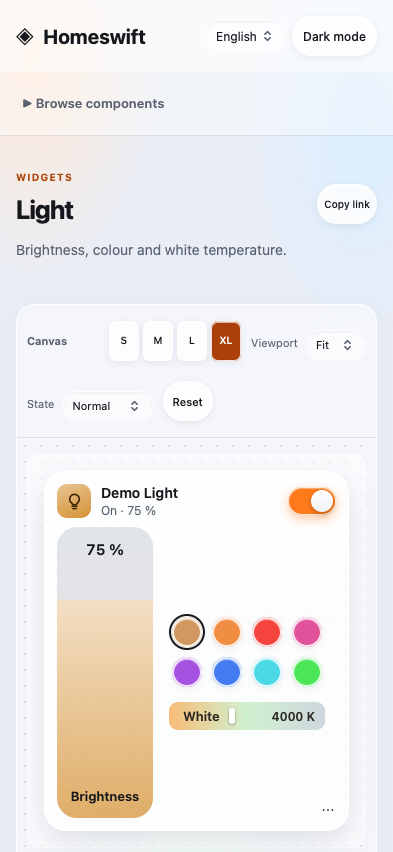
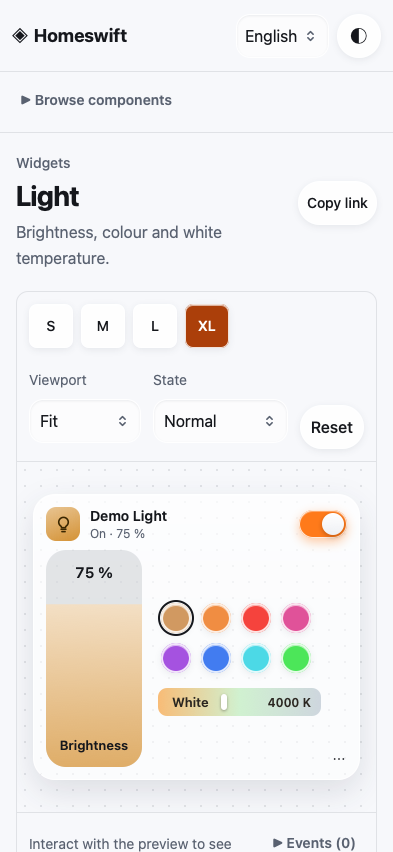
Improve design explorer accessibility and visual hierarchy

diff --git a/site/design/explorer.css b/site/design/explorer.css
@@ -1,78 +1,92 @@
-.design-library { padding: 0; }
-.library-header { margin: 0; max-width: none; width: 100%; border-radius: 0; box-shadow: none; border: 0; background-image: none; position: sticky; top: 0; z-index: 20; display: flex; align-items: center; justify-content: space-between; gap: 16px; min-height: 72px; padding: 14px 28px; background: var(--material-thick); border-bottom: 1px solid var(--line); backdrop-filter: blur(24px); }
-.library-brand { display: flex; gap: 10px; align-items: center; font-size: 20px; font-weight: 700; color: var(--text); text-decoration: none; }
-.library-brand > small { font-size: 13px; font-weight: 500; color: var(--muted); border-left: 1px solid var(--line); padding-left: 12px; margin-left: 4px; }
-.library-header-actions { display: flex; gap: 12px; align-items: center; font-size: 12px; }
-.library-header-actions button, .library-header-actions select { width: auto; padding: 6px 10px; font-size: 12px; }
-.library-status { color: var(--ok); display: flex; gap: 6px; align-items: center; }
-.library-status::before { content: ''; width: 6px; height: 6px; border-radius: 50%; background: currentColor; }
-.library-layout { display: grid; grid-template-columns: 264px minmax(0,1fr); min-height: calc(100vh - 72px); }
-.library-sidebar { position: sticky; top: 73px; height: calc(100vh - 73px); overflow: auto; padding: 24px 14px; border-right: 1px solid var(--line); background: var(--material-thin); }
-.library-search { display: grid; gap: 8px; padding: 0 8px; font-size: 11px; font-weight: 600; color: var(--muted); }
-.library-search input { padding-left: 36px; font-size: 12px; width: 100%; padding: 10px 10px 10px 36px; border-radius: 10px; }
-.library-filters { display: flex; flex-wrap: wrap; gap: 4px; padding: 12px 8px 4px; }
-.library-filters button { padding: 5px 8px; font-size: 11px; border-radius: 8px; box-shadow: none; }
+/* The explorer stays quiet; the production widget supplies the materials and colour. */
+.design-library { padding: 0; background: var(--material-solid); }
+.design-library::before { display: none; }
+.library-header { position: sticky; top: 0; z-index: 20; display: flex; align-items: center; justify-content: space-between; gap: 1rem; min-height: 4.5rem; margin: 0; max-width: none; width: 100%; padding: .75rem 1.5rem; border: 0; border-bottom: 1px solid var(--line); border-radius: 0; background: var(--material-solid); background-image: none; box-shadow: none; -webkit-backdrop-filter: none; backdrop-filter: none; }
+.library-brand { display: flex; gap: .625rem; align-items: center; font-size: 1.25rem; font-weight: 700; color: var(--text); text-decoration: none; }
+.library-brand > small { font-size: .875rem; font-weight: 500; color: var(--muted); border-left: 1px solid var(--line); padding-left: .75rem; margin-left: .25rem; }
+.library-header-actions { display: flex; gap: .75rem; align-items: center; font-size: .875rem; }
+.library-header-actions button, .library-header-actions select { width: auto; min-height: 2.75rem; padding: .5rem .75rem; font-size: .875rem; }
+.library-header-actions > a { color: var(--muted); text-decoration: none; }
+.library-status { color: var(--ok); display: flex; gap: .375rem; align-items: center; }
+.library-status::before { content: ''; width: .375rem; height: .375rem; border-radius: 50%; background: currentColor; }
+.library-layout { display: grid; grid-template-columns: 17rem minmax(0,1fr); min-height: calc(100vh - 4.5rem); }
+.library-sidebar { position: sticky; top: 4.5rem; height: calc(100vh - 4.5rem); overflow: auto; padding: 1.5rem .875rem; border-right: 1px solid var(--line); background: transparent; }
+.library-search { display: grid; gap: .5rem; padding: 0 .5rem; font-size: .875rem; font-weight: 600; color: var(--muted); }
+.library-search input { width: 100%; min-width: 0; min-height: 2.75rem; padding: .625rem .625rem .625rem 2.25rem; font-size: 1rem; border-radius: .625rem; }
+.library-filters { display: flex; flex-wrap: wrap; gap: .5rem; padding: .875rem .5rem .25rem; }
+.library-filters button { min-height: 2.75rem; padding: .5rem .625rem; font-size: .875rem; border-radius: .5rem; box-shadow: none; }
 .library-filters button[aria-pressed=true], .size-picker-button[aria-pressed=true] { background: var(--accent-fill); color: white; }
-.library-count { font-size: 11px; color: var(--muted); margin: 10px 8px 16px; }
-.story-group { margin: 18px 8px 7px; font-size: 10px; font-weight: 650; text-transform: uppercase; letter-spacing: .08em; color: var(--muted); }
-.story-link { display: flex; align-items: center; gap: 9px; padding: 8px 10px; margin: 2px 0; border-radius: 8px; text-decoration: none; color: var(--text); font-size: 12px; line-height: 1.4; }
-.story-link::before { content: '◈'; color: var(--muted); font-size: 13px; }
+.library-count { font-size: .8125rem; color: var(--muted); margin: .75rem .5rem 1rem; }
+.story-group { margin: 1.25rem .5rem .5rem; font-size: .875rem; font-weight: 650; color: var(--muted); letter-spacing: 0; text-transform: none; }
+.story-link { display: flex; align-items: center; gap: .5rem; min-height: 2.75rem; padding: .625rem; margin: .125rem 0; border-radius: .5rem; text-decoration: none; color: var(--text); font-size: .875rem; line-height: 1.4; }
+.story-link::before { content: '◈'; color: var(--muted); font-size: .875rem; }
 .story-link[data-kind=characteristic]::before { content: '◇'; color: var(--cool); }
 .story-link[aria-current=page] { background: color-mix(in srgb,var(--accent) 12%, transparent); color: var(--accent-ink); font-weight: 650; }
-.library-main { padding: 36px clamp(20px,4vw,64px) 80px; max-width: 1600px; width: 100%; min-width: 0; }
-.story-heading { display: flex; justify-content: space-between; gap: 20px; margin-bottom: 28px; align-items: flex-start; }
-.story-heading h1 { font-size: clamp(26px,3vw,38px); margin: 8px 0; letter-spacing: -.035em; }
-.story-heading p:last-child { font-size: 14px; color: var(--muted); line-height: 1.7; max-width: 680px; }
-.story-eyebrow { color: var(--accent-ink); font-size: 10px; letter-spacing: .12em; text-transform: uppercase; font-weight: 700; }
-#copy-link { white-space: nowrap; font-size: 12px; margin-top: 24px; }
-.preview-card { border: 1px solid var(--edge); border-radius: 18px; overflow: hidden; background: var(--material); box-shadow: 0 8px 30px rgba(30,40,60,.04); }
-.preview-toolbar { display: flex; flex-wrap: wrap; align-items: center; gap: 16px; min-height: 62px; padding: 12px 18px; border-bottom: 1px solid var(--line); }
-.preview-label { font-size: 11px; font-weight: 650; color: var(--muted); margin-right: auto; }
-.preview-toolbar label { display: flex; gap: 8px; align-items: center; font-size: 11px; color: var(--muted); }
-.preview-toolbar select, .preview-toolbar button { width: auto; font-size: 11px; padding: 6px 9px; }
-#size-picker { display: flex; gap: 4px; }
-#size-picker button { width: 30px; height: 30px; padding: 0; border-radius: 7px; font-size: 10px; }
-.preview-scroll { display: flex; justify-content: safe center; overflow-x: auto; padding: 28px 16px; min-height: 260px; background-image: radial-gradient(var(--line) .8px, transparent .8px); background-size: 16px 16px; }
-#preview { display: block; border: 1px solid var(--edge); border-radius: 14px; flex-shrink: 0; width: 393px; min-height: 220px; padding: 16px; background: var(--material); }
-.preview-note { margin: 0; padding: 10px 18px; border-top: 1px solid var(--line); color: var(--muted); font-size: 10px; }
-.story-panels { display: grid; grid-template-columns: minmax(0,1.1fr) minmax(0,1fr); gap: 18px; margin-top: 20px; }
-.story-panel { min-width: 0; padding: 22px; border: 1px solid var(--line); border-radius: 16px; background: var(--material-thin); margin-bottom: 18px; }
-.story-panel h2 { margin: 0 0 10px; font-size: 14px; }
-.story-panel h3 { font-size: 11px; color: var(--muted); margin: 22px 0 12px; text-transform: uppercase; letter-spacing: .06em; }
-.panel-help { color: var(--muted); font-size: 11px; line-height: 1.7; margin-bottom: 18px; }
-.knob { display: grid; grid-template-columns: minmax(0,1fr) minmax(110px,42%); align-items: center; gap: 14px; padding: 10px 0; border-bottom: 1px solid var(--line); font-size: 11px; }
-.knob small { display: block; color: var(--muted); font-size: 9px; margin-top: 3px; }
-.knob input, .knob select { width: 100%; font-size: 12px; min-width: 0; padding: 6px 9px; }
-.knob input[type=checkbox] { width: 20px; height: 20px; justify-self: end; accent-color: var(--accent-fill); }
-.rule { font-size: 12px; line-height: 1.7; color: var(--muted); margin: 0 0 12px; }
+.library-main { padding: 2rem clamp(1.25rem,4vw,4rem) 4rem; max-width: 100rem; width: 100%; min-width: 0; }
+.story-heading { display: flex; justify-content: space-between; gap: 1rem; margin-bottom: 1.5rem; align-items: flex-start; }
+.story-heading > div { min-width: 0; }
+.story-heading h1 { overflow-wrap: anywhere; font-size: clamp(1.75rem,3vw,2.25rem); margin: .375rem 0; letter-spacing: -.025em; scroll-margin-top: 6rem; }
+.story-heading h1:focus-visible { outline: 2px solid var(--accent); outline-offset: .25rem; }
+.story-heading p:last-child { font-size: 1rem; color: var(--muted); line-height: 1.6; max-width: 44rem; margin: .5rem 0 0; }
+.story-eyebrow { color: var(--muted); font-size: .875rem; font-weight: 500; margin: 0; }
+#copy-link { min-height: 2.75rem; white-space: nowrap; font-size: .875rem; margin-top: 1.75rem; }
+.preview-card { border: 1px solid var(--line); border-radius: .75rem; overflow: hidden; background: transparent; box-shadow: none; }
+.preview-toolbar { display: flex; flex-wrap: wrap; align-items: center; gap: 1rem; padding: .875rem 1rem; border-bottom: 1px solid var(--line); }
+.preview-toolbar label { display: flex; gap: .5rem; align-items: center; min-width: 0; font-size: .875rem; color: var(--muted); }
+.preview-toolbar select, .preview-toolbar button { width: auto; min-height: 2.75rem; font-size: 1rem; padding: .5rem .625rem; }
+#size-picker { display: flex; flex-wrap: wrap; gap: .5rem; }
+#size-picker button { flex: 0 0 2.75rem; width: 2.75rem; min-width: 2.75rem; height: 2.75rem; min-height: 2.75rem; padding: 0; border-radius: .5rem; font-size: .875rem; }
+#reset { margin-left: auto; }
+.preview-scroll { display: flex; justify-content: safe center; overflow-x: auto; padding: 1.5rem 1rem; min-height: 16.25rem; background-image: radial-gradient(var(--line) .8px, transparent .8px); background-size: 1rem 1rem; }
+#preview { display: block; flex-shrink: 0; width: 393px; min-height: 13.75rem; padding: 1rem; border: 0; border-radius: 0; background: transparent; }
+.preview-feedback { display: grid; grid-template-columns: minmax(0,1fr) auto; align-items: start; gap: .75rem 1rem; padding: 1rem; border-top: 1px solid var(--line); }
+#last-event { margin: .5rem 0 0; font-size: .875rem; line-height: 1.5; color: var(--muted); overflow-wrap: anywhere; }
+#last-event[data-tone=error] { color: var(--error); }
+.event-details > summary { min-height: 2.75rem; cursor: pointer; font-size: .875rem; font-weight: 600; padding: .5rem; }
+.event-details[open] { grid-column: 1 / -1; }
+.preview-note { margin: 0; padding: 0 1rem 1rem; color: var(--muted); font-size: .8125rem; line-height: 1.5; }
+.story-panels { display: grid; grid-template-columns: minmax(0,1.1fr) minmax(0,1fr); gap: 2rem; margin-top: 1.5rem; }
+.story-panel { min-width: 0; padding: 1.25rem 0; border: 0; border-top: 1px solid var(--line); border-radius: 0; background: transparent; margin-bottom: 1rem; box-shadow: none; }
+.story-panel h2 { margin: 0 0 .75rem; font-size: 1.125rem; }
+.story-panel h3 { font-size: 1rem; color: var(--text); margin: 1.5rem 0 .75rem; letter-spacing: 0; text-transform: none; }
+.panel-help { color: var(--muted); font-size: .875rem; line-height: 1.6; margin-bottom: 1.25rem; }
+.knob { display: grid; grid-template-columns: minmax(0,1fr) minmax(7rem,46%); align-items: center; gap: .875rem; min-height: 2.75rem; padding: .75rem 0; border-bottom: 1px solid var(--line); font-size: .875rem; overflow-wrap: anywhere; }
+.knob small { display: block; color: var(--muted); font-size: .8125rem; margin-top: .25rem; }
+.knob input, .knob select { width: 100%; min-height: 2.75rem; font-size: 1rem; min-width: 0; padding: .5rem; }
+.knob input[type=checkbox] { width: 1.5rem; height: 1.5rem; min-height: 0; justify-self: end; accent-color: var(--accent-fill); }
+.rule { font-size: .9375rem; line-height: 1.65; color: var(--muted); margin: 0 0 .875rem; }
 .rule strong { color: var(--text); }
-.story-panel dl { display: grid; grid-template-columns: 96px minmax(0,1fr); font-size: 11px; gap: 9px 12px; margin: 0; }
+.story-panel dl { display: grid; grid-template-columns: 7rem minmax(0,1fr); font-size: .875rem; gap: .75rem; margin: 0; }
 .story-panel dt { color: var(--muted); }
-.story-panel dd { margin: 0; overflow-wrap: anywhere; font-family: var(--mono); font-size: 10px; }
+.story-panel dd { margin: 0; overflow-wrap: anywhere; font-family: var(--mono); font-size: .8125rem; }
 .panel-heading { display: flex; justify-content: space-between; align-items: center; }
-.panel-heading button { font-size: 11px; padding: 4px 8px; }
-.event-log { list-style: none; margin: 0; padding: 0; max-height: 180px; overflow: auto; }
-.event-log li { padding: 8px 0; border-top: 1px solid var(--line); color: var(--muted); font: 10px/1.6 var(--mono); overflow-wrap: anywhere; }
-.story-panel pre { margin: 0; max-height: 260px; overflow: auto; font-size: 10px; padding: 14px; border-radius: 10px; }
-.token-grid { display: grid; grid-template-columns: repeat(auto-fit,minmax(180px,1fr)); gap: 14px; }
-.token-card { padding: 18px; border: 1px solid var(--line); border-radius: 14px; background: var(--material); }
-.token-swatch { height: 64px; border-radius: 9px; border: 1px solid var(--line); margin-bottom: 12px; }
-.token-card strong { display: block; font-size: 12px; }.token-card code { font-size: 10px; color: var(--muted); }
-.skip { position: fixed; top: -100px; left: 12px; z-index: 50; }.skip:focus { top: 10px; background: var(--material-solid); padding: 12px; }
-@media(max-width:1000px) { .library-header-actions > a,.library-status { display: none; } .story-panels { grid-template-columns: 1fr; } .library-layout { grid-template-columns: 220px minmax(0,1fr); } }
-@media(max-width:700px) { .library-header { margin: 0; max-width: none; width: 100%; border-radius: 0; box-shadow: none; border: 0; background-image: none; padding: 12px 16px; }.library-brand > small { display: none; }.library-header-actions { gap: 6px; }.library-layout { display: block; }.library-sidebar { position: static; height: auto; padding: 14px; border-right: 0; border-bottom: 1px solid var(--line); } #stories { max-height: 210px; overflow:auto; }.library-main { padding: 24px 16px 60px; }.preview-scroll { justify-content: flex-start; padding: 16px 10px; }.preview-toolbar { gap: 10px; padding: 10px; }.story-heading { gap: 10px; }#copy-link { font-size: 10px; padding: 6px; } }
-
+.panel-heading button { min-height: 2.75rem; font-size: .875rem; padding: .5rem .75rem; }
+.event-log { list-style: none; margin: 0; padding: 0; max-height: 15rem; overflow: auto; }
+.event-log li { padding: .625rem 0; border-top: 1px solid var(--line); color: var(--muted); font: .8125rem/1.6 var(--mono); overflow-wrap: anywhere; }
+.fixture-panel > summary { min-height: 2.75rem; cursor: pointer; font-size: 1rem; font-weight: 600; padding: .5rem 0; }
+.story-panel pre { margin: 0; max-height: 20rem; overflow: auto; font-size: .8125rem; padding: 1rem 0; border-radius: 0; }
+.token-grid { display: grid; grid-template-columns: repeat(auto-fit,minmax(min(100%,11rem),1fr)); gap: 1rem; }
+.token-card { padding: 1rem; border: 1px solid var(--line); border-radius: .5rem; background: transparent; }
+.token-swatch { height: 4rem; border-radius: .375rem; border: 1px solid var(--line); margin-bottom: .75rem; }
+.token-card strong { display: block; font-size: .875rem; }.token-card code { font-size: .8125rem; color: var(--muted); }
+.skip { position: fixed; top: -100px; left: .75rem; z-index: 50; }.skip:focus { top: .625rem; background: var(--material-solid); padding: .75rem; }
 #stories { display: block; }
-.library-header-actions > a { color: var(--muted); text-decoration: none; }
-.library-header-actions > a:hover { color: var(--text); text-decoration: underline; }
-
 #view { width: 100%; min-width: 0; }
 #story-browser > summary { display: none; }
-#preview .characteristic-demo { padding: 24px; }
+#preview .characteristic-demo { padding: 1.5rem; }
 #preview .characteristic-demo .control { margin: 0; }
 #preview .characteristic-demo .control > span:first-child { max-width: 48%; }
 #preview .protocol-note { color: var(--muted); line-height: 1.6; margin: 0; }
+@media (hover: hover) and (pointer: fine) { .library-header-actions > a:hover { color: var(--text); text-decoration: underline; } }
+@media (hover: none) { .design-library button:hover { transform: none; }.design-library button:active:not(:disabled) { transform: scale(.97); } }
+@media (max-width: 1100px) { .library-header-actions > a,.library-status { display: none; }.story-panels { grid-template-columns: 1fr; gap: 0; }.library-layout { grid-template-columns: 15rem minmax(0,1fr); } }
 @media (max-width: 700px) {
-  #story-browser > summary { display: list-item; cursor: pointer; padding: 8px; font-weight: 600; font-size: 13px; }
-  #story-browser[open] > summary { margin-bottom: 12px; }
+  .library-header { flex-wrap: wrap; padding: .75rem; gap: .5rem; }.library-brand { font-size: 1.125rem; gap: .375rem; }.library-brand > small { display: none; }.library-header-actions { gap: .5rem; }.library-header-actions select { font-size: 1rem; max-width: 7rem; padding: .5rem; }
+  #theme { font-size: 0; width: 2.75rem; height: 2.75rem; padding: 0; flex: 0 0 auto; }#theme::before { content: '◐'; font-size: 1.25rem; }
+  .library-layout { display: block; }.library-sidebar { position: static; height: auto; padding: .5rem .75rem; border-right: 0; border-bottom: 1px solid var(--line); }
+  #story-browser > summary { display: list-item; min-height: 2.75rem; cursor: pointer; padding: .625rem .5rem; font-weight: 600; font-size: .875rem; }#story-browser[open] > summary { margin-bottom: .75rem; }#stories { max-height: 40vh; overflow: auto; }
+  .library-main { padding: 1.25rem 1rem 3rem; }.story-heading { gap: .75rem; margin-bottom: 1.25rem; }#copy-link { font-size: .875rem; padding: .5rem; }
+  .preview-toolbar { display: grid; grid-template-columns: minmax(0,1fr) minmax(0,1.2fr) auto; gap: .75rem; padding: .75rem; }#size-picker { grid-column: 1 / -1; }.preview-toolbar label { display: grid; gap: .25rem; }.preview-toolbar select { width: 100%; min-width: 0; }#reset { align-self: end; margin-left: 0; }
+  .knob { grid-template-columns: 1fr; gap: .5rem; }.knob input[type=checkbox] { justify-self: start; }
+  .preview-scroll { justify-content: flex-start; padding: 1rem 0; }.preview-feedback { padding: .75rem; gap: .5rem; }.preview-note { padding: 0 .75rem .75rem; }
 }

diff --git a/site/design/explorer.js b/site/design/explorer.js
@@ -21,6 +21,7 @@
   let current, accessory, size = sizes.includes(params.get("size")) ? params.get("size") : "xlarge", filter = "all";
   let theme = document.documentElement.dataset.theme;
   const inputs = new Map();
+  let fromNavigation = false;
   const language = HomeswiftI18n.language;
   const canvas = $("preview");
   const browser = $("story-browser"), mobile = matchMedia("(max-width: 700px)");
@@ -55,13 +56,23 @@
     button.onclick = () => { filter = key; for (const node of $("filters").children) node.setAttribute("aria-pressed", String(node === button)); navigation(); };
     $("filters").append(button);
   }
-  function event(text) {
+  function event(text, tone = "normal") {
     const list = $("events");
     if (list.dataset.empty) { list.replaceChildren(); delete list.dataset.empty; }
     list.prepend(el("li", { text: `${new Date().toLocaleTimeString(HomeswiftI18n.locale)}  ${text}` }));
     while (list.children.length > 30) list.lastElementChild.remove();
+    $("last-event").textContent = text; $("last-event").dataset.tone = tone;
+    $("event-count").textContent = `(${list.children.length.toLocaleString(HomeswiftI18n.locale)})`;
   }
-  function clearEvents() { $("events").replaceChildren(el("li", { text: t("Interact with the preview to see events.") })); $("events").dataset.empty = "true"; }
+  function clearEvents() {
+    const text = t("Interact with the preview to see events.");
+    $("events").replaceChildren(el("li", { text })); $("events").dataset.empty = "true";
+    $("last-event").textContent = text; delete $("last-event").dataset.tone; $("event-count").textContent = "(0)";
+  }
+  function enumValue(c, value) {
+    const name = HomeswiftWidgets.labelFor(c.type, value), raw = String(value);
+    return name && String(name) !== raw ? `${name} (${raw})` : raw;
+  }
   function fixture() { $("fixture").textContent = JSON.stringify(accessory, null, 2); }
   function fitCanvas() {
     const viewport = $("viewport").value;
@@ -93,7 +104,7 @@
       const label = el("label", { className: "knob" }, el("span", {}, el("span", { text: HomeswiftI18n.message(c.type) }), el("small", { text: `${service.name || service.type} · ${c.format}${c.unit ? ` · ${c.unit}` : ""}` })));
       let input;
       if (c.format === "bool") input = el("input", { type: "checkbox", checked: !!c.value });
-      else if (c.validValues) input = el("select", {}, c.validValues.map((value) => el("option", { value: String(value), text: String(value), selected: value === c.value })));
+      else if (c.validValues) input = el("select", {}, c.validValues.map((value) => el("option", { value: String(value), text: enumValue(c, value), selected: value === c.value })));
       else input = el("input", { type: c.format === "string" ? "text" : "number", value: c.value ?? "", ...(c.minValue !== undefined ? { min: c.minValue } : {}), ...(c.maxValue !== undefined ? { max: c.maxValue } : {}), ...(c.maxLength !== undefined && c.format === "string" ? { maxLength: c.maxLength } : {}), step: c.minStep || "any" });
       input.setAttribute("aria-label", c.type);
       input.onchange = () => {
@@ -132,7 +143,7 @@
       if (["lockTargetState","targetDoorState","securitySystemTargetState"].includes(c.id)) note("The generic inspector confirms security writes. Dedicated widgets use a hold for opening, unlocking and disarming.");
       pair("Identifier", c.id); pair("UUID", c.uuid); pair("Format", c.format); pair("Permissions", c.permissions.join(" · "));
       pair("Range", c.minValue !== undefined || c.maxValue !== undefined ? `${c.minValue ?? "—"} … ${c.maxValue ?? "—"}` : "—");
-      pair("Step", c.minStep ?? "—"); if (c.maxLength !== undefined) pair("Maximum length", c.maxLength); pair("Unit", c.unit ?? "—"); pair("Values", c.validValues?.join(", ") ?? "—");
+      pair("Step", c.minStep ?? "—"); if (c.maxLength !== undefined) pair("Maximum length", c.maxLength); pair("Unit", c.unit ?? "—"); pair("Values", c.validValues?.map(value => enumValue(c, value)).join(", ") ?? "—");
       pair("Services", c.services.map((id) => services.find((one) => one.id === id)?.name).join(", ") || "—");
       pair("Renderer", "HomeswiftWidgets.characteristicRow");
     }
@@ -149,6 +160,8 @@
     for (const [name,text] of [["Layout","Columns start at 176 px; phones keep two columns. Compact rows are at least 64 px with a 10 px gap. L and XL fit whole rows to their controls."],["Type & shape","System type, a 22 px accessory radius, 40 px summary icons, and a clear name/status hierarchy."],["Interaction","Keyboard focus, named controls, deliberate security actions and reduced-motion support are part of the component contract."]]) host.append(el("section",{className:"story-panel"},el("h2",{text:t(name)}),el("p",{className:"rule",text:t(text)})));
   }
   function select() {
+    const choseStory = fromNavigation || $("stories").contains(document.activeElement);
+    fromNavigation = false;
     if (mobile.matches) browser.open = false;
     let id; try { id = decodeURIComponent(location.hash.slice(1)); } catch { id = ""; }
     current = stories.find((one) => one.id === id) || widgets[0];
@@ -158,7 +171,14 @@
     $("foundations").classList.toggle("hidden", current.kind !== "foundation");
     $("component-story").classList.toggle("hidden", current.kind === "foundation");
     $("size-picker").classList.toggle("hidden", current.kind !== "widget");
-    clearEvents(); navigation();
+    clearEvents(); $("event-details").open = false;
+    $("copy-link").textContent = t("Copy link");
+    if (!$("stories").childElementCount) navigation();
+    else for (const link of $("stories").querySelectorAll(".story-link")) link.setAttribute("aria-current", link.hash === `#${current.id}` ? "page" : "false");
+    if (choseStory) {
+      if (mobile.matches) $("story-title").focus({ preventScroll: true });
+      window.scrollTo(0, 0);
+    }
     if (current.kind === "foundation") { accessory = null; tokens(); updateURL(); return; }
     accessory = current.kind === "widget" ? current.build() : rowStory(current.characteristic.id);
     knobs(); metadata(); send();
@@ -167,7 +187,7 @@
     const data = eventMessage.detail;
     if (data?.type === "design-size" && sizes.includes(data.size)) setSize(data.size);
     if (data?.type === "design-action") {
-      if (data.error) { event(`${t("Rejected")}: ${t(data.error)}`); return; }
+      if (data.error) { event(`${t("Rejected")}: ${t(data.error)}`, "error"); return; }
       for (const change of data.changes || []) {
         const target = inputs.get(`${change.service}/${change.characteristic}`);
         if (target) { target.characteristic.value = change.value; if (target.input.type === "checkbox") target.input.checked = !!change.value; else target.input.value = String(change.value); }
@@ -176,12 +196,25 @@
       fixture();
     }
   });
+  $("stories").addEventListener("click", (event) => {
+    const link = event.target.closest(".story-link"); if (!link) return;
+    fromNavigation = true;
+    if (link.hash === location.hash) {
+      fromNavigation = false;
+      if (mobile.matches) { browser.open = false; $("story-title").focus({ preventScroll: true }); }
+      window.scrollTo(0, 0);
+    }
+  });
   $("search").oninput = navigation;
   $("viewport").onchange = send; $("state").onchange = send;
   $("reset").onclick = select; $("clear-events").onclick = clearEvents;
   $("copy-link").onclick = async () => { updateURL(); try { await navigator.clipboard.writeText(location.href); $("copy-link").textContent = t("Copied"); } catch { event(location.href); } };
-  $("theme").onclick = () => { theme = theme === "dark" ? "light" : "dark"; document.documentElement.dataset.theme = theme; localStorage.setItem("homeswift.design.theme",theme); $("theme").textContent = t(theme === "dark" ? "Light mode" : "Dark mode"); if(current.kind === "foundation")tokens(); };
-  $("theme").textContent = t(theme === "dark" ? "Light mode" : "Dark mode");
+  function updateThemeButton() {
+    const label = t(theme === "dark" ? "Light mode" : "Dark mode");
+    $("theme").textContent = label; $("theme").setAttribute("aria-label", label); $("theme").title = label;
+  }
+  $("theme").onclick = () => { theme = theme === "dark" ? "light" : "dark"; document.documentElement.dataset.theme = theme; localStorage.setItem("homeswift.design.theme",theme); updateThemeButton(); if(current.kind === "foundation")tokens(); };
+  updateThemeButton();
   $("language").onchange = () => { const url = new URL(location.href); url.searchParams.set("lang",$("language").value); localStorage.setItem("homeswift.design.language",$("language").value); location.href=url; };
   addEventListener("hashchange", select);
   select();

diff --git a/site/design/index.html b/site/design/index.html
@@ -28,17 +28,20 @@
     </details>
   </aside>
   <main id="story" class="library-main" tabindex="-1">
-    <div class="story-heading"><div><p class="story-eyebrow" id="eyebrow"></p><h1 id="story-title"></h1><p id="story-description"></p></div><button id="copy-link" type="button" data-i18n>Copy link</button></div>
+    <div class="story-heading"><div><p class="story-eyebrow" id="eyebrow"></p><h1 id="story-title" tabindex="-1"></h1><p id="story-description"></p></div><button id="copy-link" type="button" data-i18n>Copy link</button></div>
     <section id="foundations" class="hidden"></section>
     <div id="component-story">
       <section class="preview-card" aria-label="Interactive preview" data-i18n>
-        <div class="preview-toolbar"><span class="preview-label" data-i18n>Canvas</span><div id="size-picker" role="group" aria-label="Widget size" data-i18n></div><label><span data-i18n>Viewport</span><select id="viewport"><option value="fit" data-i18n>Fit</option><option value="393">393 px</option><option value="768">768 px</option><option value="1120">1120 px</option></select></label><label><span data-i18n>State</span><select id="state"><option value="normal" data-i18n>Normal</option><option value="paused" data-i18n>Paused</option><option value="unavailable" data-i18n>No Response</option><option value="readonly" data-i18n>Read only</option></select></label><button id="reset" type="button" data-i18n>Reset</button></div>
+        <div class="preview-toolbar"><div id="size-picker" role="group" aria-label="Widget size" data-i18n></div><label><span data-i18n>Viewport</span><select id="viewport"><option value="fit" data-i18n>Fit</option><option value="393">393 px</option><option value="768">768 px</option><option value="1120">1120 px</option></select></label><label><span data-i18n>State</span><select id="state"><option value="normal" data-i18n>Normal</option><option value="paused" data-i18n>Paused</option><option value="unavailable" data-i18n>No Response</option><option value="readonly" data-i18n>Read only</option></select></label><button id="reset" type="button" data-i18n>Reset</button></div>
         <div class="preview-scroll"><div id="preview" role="region" aria-label="Interactive component preview" data-i18n><div id="view" class="accessory-walls"></div></div></div>
+        <div class="preview-feedback">
+          <p id="last-event" role="status" aria-live="polite"></p>
+          <details id="event-details" class="event-details"><summary><span data-i18n>Events</span> <span id="event-count">(0)</span></summary><div class="panel-heading"><button id="clear-events" type="button" data-i18n>Clear</button></div><ol id="events" class="event-log"></ol></details>
+        </div>
         <p class="preview-note" data-i18n>Demo values only. Interactions stay in this browser.</p>
       </section>
       <div class="story-panels"><section class="story-panel"><h2 data-i18n>Controls</h2><p class="panel-help" data-i18n>Change a value here, or interact with the component.</p><div id="knobs"></div></section><section class="story-panel"><h2 data-i18n>Design & behavior</h2><div id="rules"></div><h3 data-i18n>Contract</h3><dl id="metadata"></dl></section></div>
-      <section class="story-panel"><div class="panel-heading"><h2 data-i18n>Events</h2><button id="clear-events" type="button" data-i18n>Clear</button></div><ol id="events" class="event-log" aria-live="polite"></ol></section>
-      <section class="story-panel"><h2 data-i18n>Fixture</h2><p class="panel-help" data-i18n>The exact accessory data passed to the production renderer.</p><pre id="fixture"></pre></section>
+      <details class="story-panel fixture-panel"><summary data-i18n>Fixture</summary><p class="panel-help" data-i18n>The exact accessory data passed to the production renderer.</p><pre id="fixture"></pre></details>
     </div>
   </main>
 </div>

diff --git a/docs/design-system.md b/docs/design-system.md
@@ -9,6 +9,8 @@ an account, a framework or a build step.
 ## Find and exercise a component
 
 On phones, **Browse components** opens the component list and selecting a story brings the preview back into view.
+Desktop navigation preserves keyboard focus on the selected story; mobile selection moves focus to its heading.
+The explorer uses scalable text, 44 px size targets and neutral surfaces around the production widget.
 The sidebar contains foundations, 14 widget stories, and one story for each of the 252 characteristics in
 `Definitions.swift`. Search by a characteristic's name, Swift identifier, service identifier or short UUID.
 Filters separate widgets, characteristics and foundations.
@@ -22,8 +24,9 @@ Filters separate widgets, characteristics and foundations.
 
 Use the canvas toolbar to choose a viewport or Fit, simulate a paused or unavailable accessory, or remove
 write permissions. The Controls panel simulates incoming readings even for read-only characteristics.
-Events records simulated readings, writes and failures; Fixture shows the data sent to the renderer. Reset
-restores the story's demonstration values. Theme and language apply to both the explorer and its canvas.
+The feedback line beneath the canvas shows the latest reading, write or failure; expand Events for its history.
+Enum controls show names alongside protocol values, such as Auto (0), Heat (1) and Cool (2). Expand Fixture to
+inspect the data sent to the renderer. Reset restores the story's demonstration values. Theme and language apply to both the explorer and its canvas.
 Copy link preserves the story, size, viewport, state and language, for example:
 
 - [Expanded light](https://homeswift.dev/design/?size=xlarge&viewport=393#widget/light)
